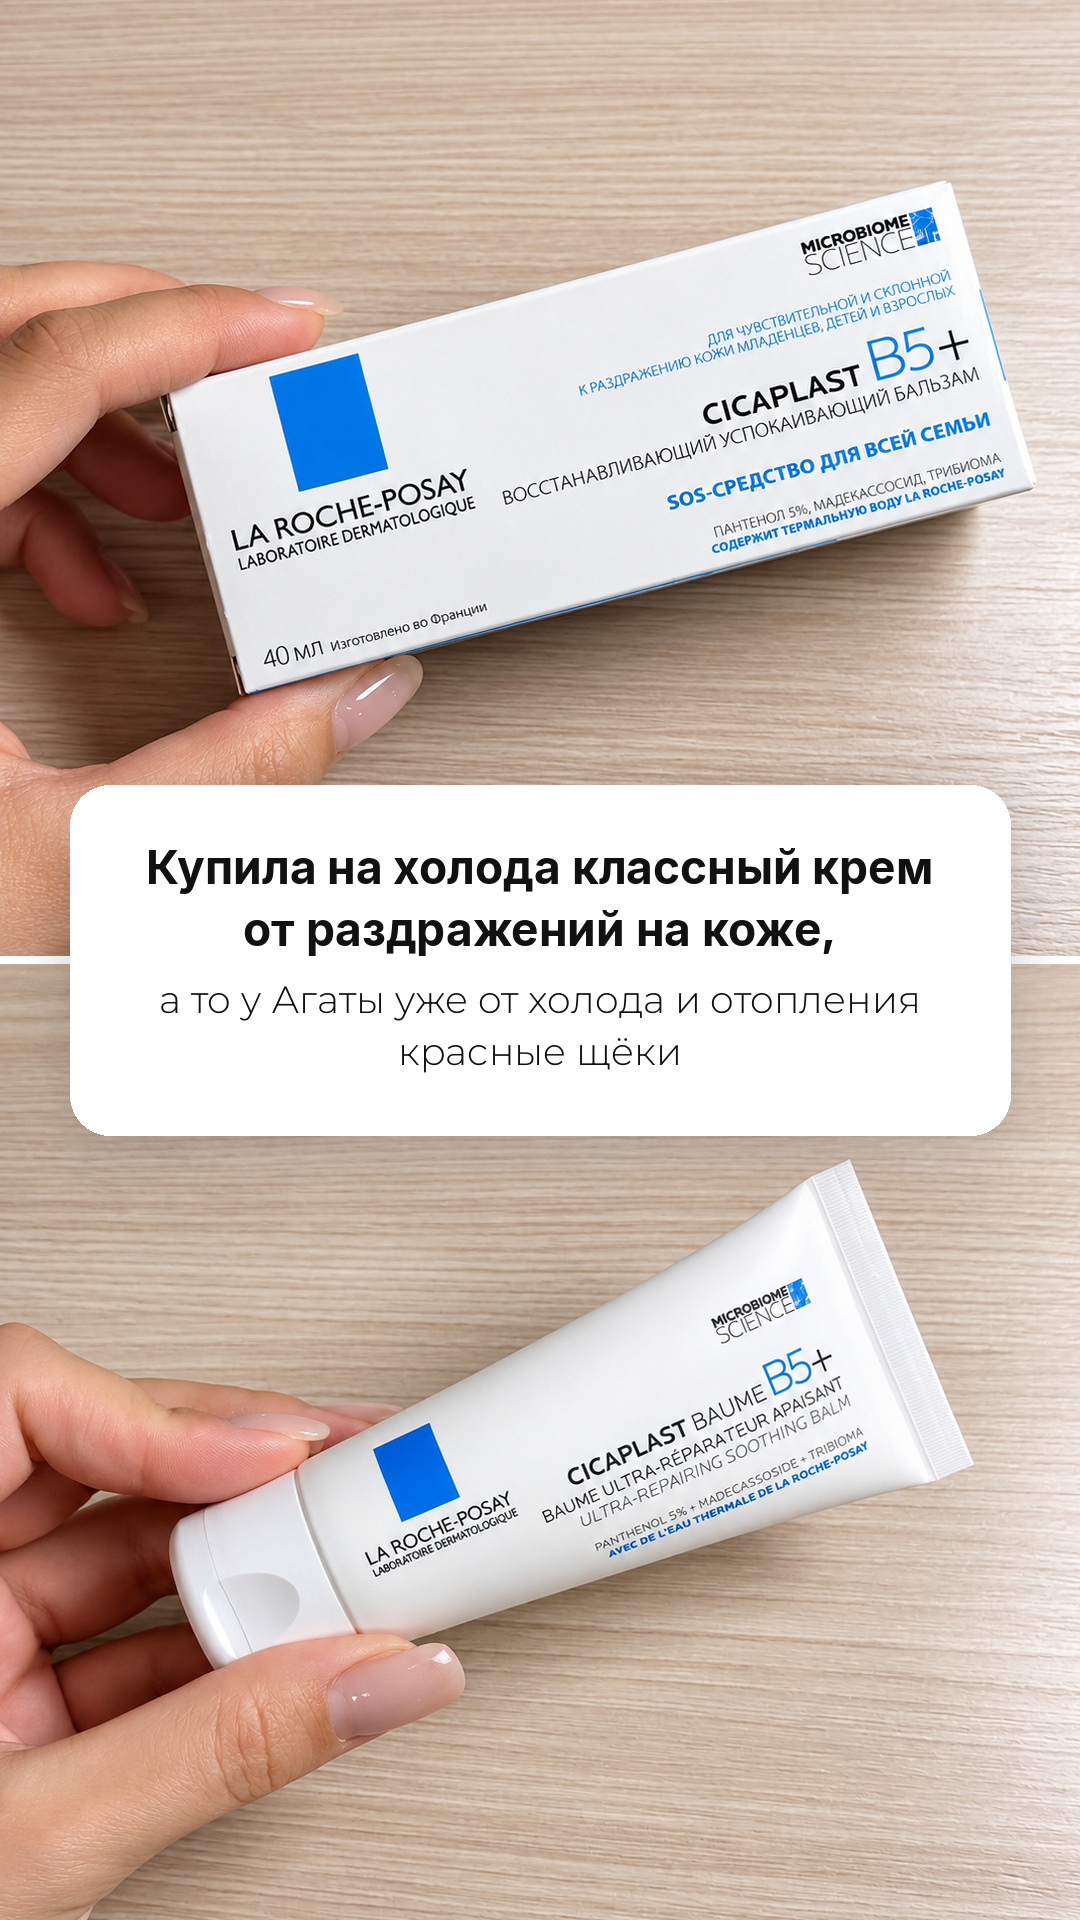
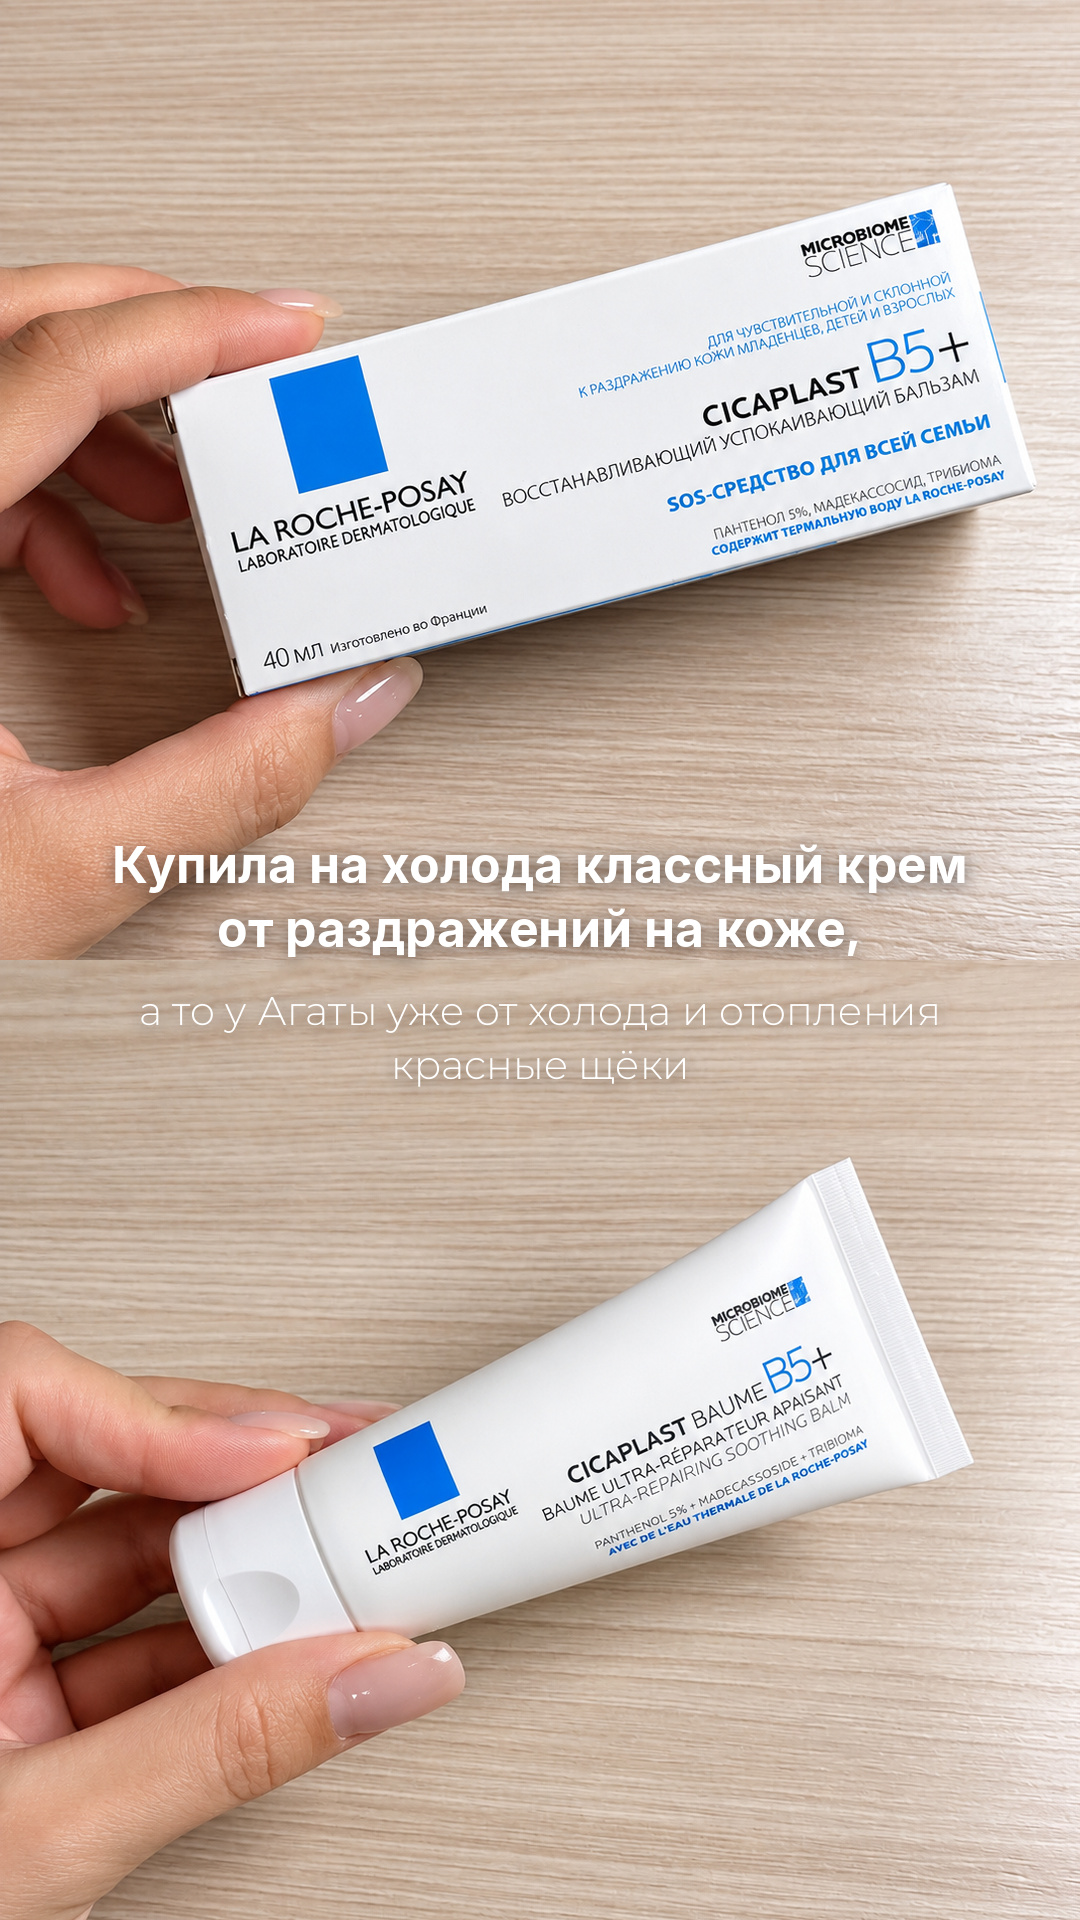
Cicaplast story: white type without card, seamless collage
Claude-Session: https://claude.ai/code/session_012YshTqjf4Bh49UeEqyfujw

diff --git a/tools/stories_cicaplast.py b/tools/stories_cicaplast.py
@@ -1,15 +1,15 @@
 """@mcg.va — «крем на холода» (La Roche-Posay Cicaplast B5+), one collage story 1080x1920.
-Two photos stacked full-bleed with a thin white seam; a white rounded card with a soft shadow sits on the seam.
+Two photos stacked full-bleed edge to edge; white type with a soft glyph shadow sits on the seam, no card.
 Fonts (stories_kit): main = Inter Bold, second = thin Montserrat.
   python3 -I stories_cicaplast.py box.png tube.png out.jpg
 """
 import os, sys
-from PIL import Image, ImageDraw
+from PIL import Image
 sys.path.insert(0, os.path.dirname(os.path.abspath(__file__)))
-from stories_kit import W, H, INK, font, wrap
-from stories_walk_look import shadowed
+from stories_kit import W, H
+from stories_pacifiers import shadow_text
 
-SEAM = 8
+SEAM = 0                                        # the two wood tables meet without a line under the type
 
 def crop(ph, h, cy):
     """photo scaled to the story width, a window of height h centred at cy (0..1 of the photo)"""
@@ -20,15 +20,10 @@ def crop(ph, h, cy):
 def story(box, tube, out):
     img = Image.new("RGB", (W, H), (255, 255, 255)); half = (H - SEAM) // 2
     img.paste(crop(box, half, 0.52), (0, 0)); img.paste(crop(tube, half, 0.47), (0, half + SEAM))
-    fm, fs = font("main", 46), font("second", 38)
-    main = wrap("Купила на холода классный крем от раздражений на коже,", fm, 800)
-    sec = wrap("а то у Агаты уже от холода и отопления красные щёки", fs, 800)
-    h = 60 + 62 * len(main) + 18 + 52 * len(sec) + 44; y0 = H // 2 - h // 2
-    shadowed(img, (70, y0, W - 70, y0 + h), 40, blur=30, off=12, alpha=0.22)
-    d = ImageDraw.Draw(img); y = y0 + 60 + 22
-    for l in main: d.text((W / 2, y), l, font=fm, fill=INK, anchor="mm"); y += 62
-    y += 18 - 62 + 52
-    for l in sec: d.text((W / 2, y), l, font=fs, fill=INK, anchor="mm"); y += 52
+    items = [("main", 50, 64, "Купила на холода классный крем от раздражений на коже,", 18),
+             ("second", 40, 54, "а то у Агаты уже от холода и отопления красные щёки", 0)]
+    hgt = 2 * 64 + 18 + 2 * 54                                    # two lines each, centred on the seam
+    shadow_text(img, items, H // 2 - hgt // 2 + 32, maxw=860)
     img.save(out, quality=95, subsampling=0)
 
 if __name__ == "__main__":
